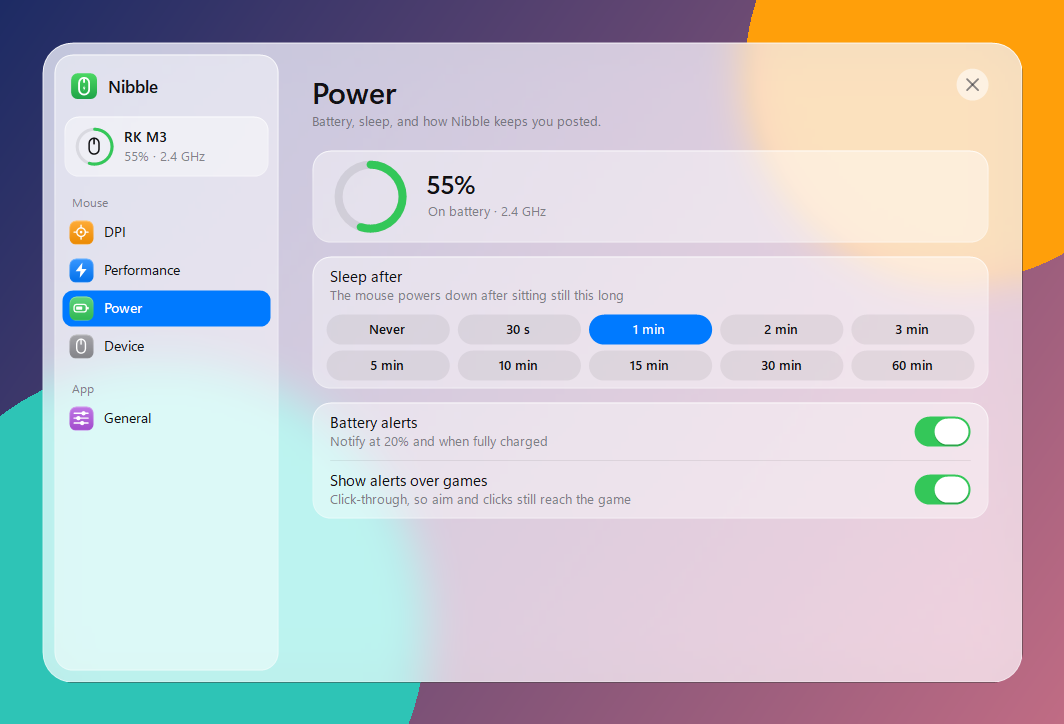
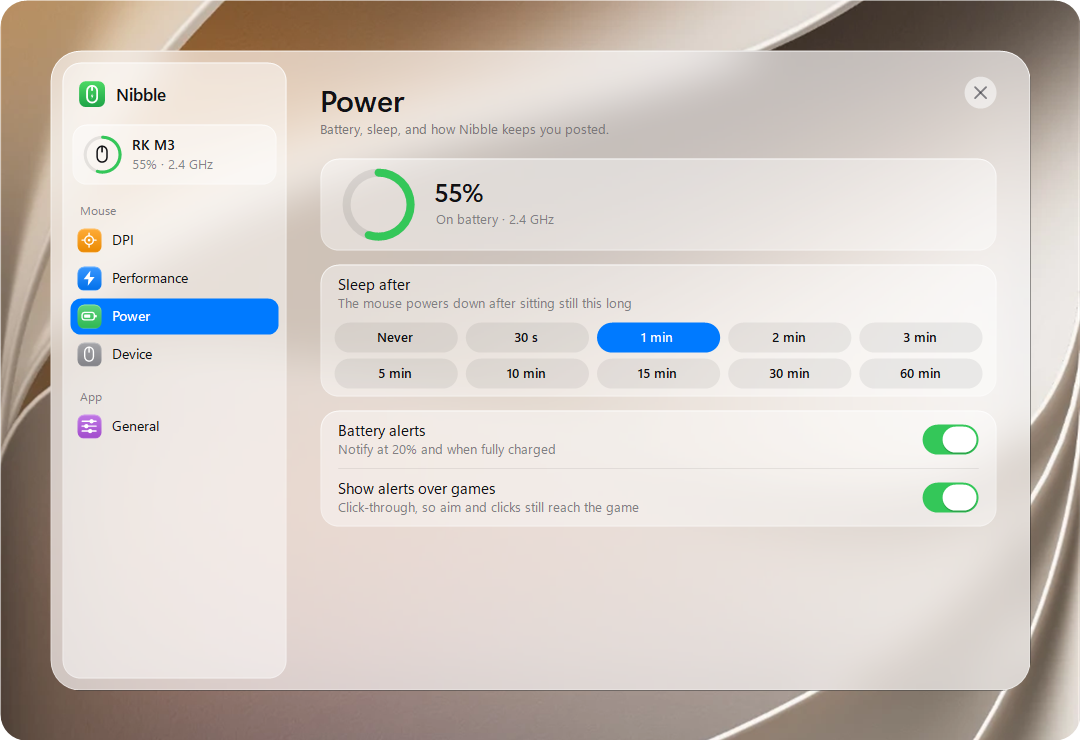
docs: screenshots on official wallpapers with even padding and rounded corners

diff --git a/src/UI/Wallpaper.cs b/src/UI/Wallpaper.cs
@@ -1,38 +1,104 @@
+using System;
 using System.Drawing;
 using System.Drawing.Drawing2D;
 using System.Drawing.Imaging;
+using System.Runtime.InteropServices;
 
 namespace Nibble.UI
 {
-    // Synthetic, colourful backdrops for design snapshots, so the glass has something to frost.
+    // Backdrops for design snapshots, so the glass has something to frost: an image passed with --bg,
+    // otherwise a neutral studio gradient.
     static class Wallpaper
     {
-        public static Bitmap Small(Size s)
+        public static string File;
+
+        public static Bitmap For(bool dark, Size s)
+        {
+            if (File != null && System.IO.File.Exists(File)) return FromFile(File, s);
+            return dark ? Studio(s, 0x2E3035, 0x111214, 0xFFFFFF, 34) : Studio(s, 0xF2F0EC, 0xD9D5CE, 0xFFFFFF, 150);
+        }
+
+        // Scales the image to cover the frame and crops a band just above the middle.
+        static Bitmap FromFile(string path, Size s)
+        {
+            using (var src = new Bitmap(path))
+            {
+                float k = Math.Max(s.Width / (float)src.Width, s.Height / (float)src.Height);
+                float w = src.Width * k, h = src.Height * k;
+                var b = new Bitmap(s.Width, s.Height, PixelFormat.Format32bppArgb);
+                using (var g = Graphics.FromImage(b))
+                {
+                    g.InterpolationMode = InterpolationMode.HighQualityBicubic;
+                    g.PixelOffsetMode = PixelOffsetMode.HighQuality;
+                    g.DrawImage(src, new RectangleF((s.Width - w) / 2, (s.Height - h) * 0.42f, w, h));
+                }
+                return b;
+            }
+        }
+
+        // A photo-studio sweep: vertical gradient, one soft key light, a gentle vignette, fine grain.
+        static Bitmap Studio(Size s, int top, int bottom, int light, int lightAlpha)
         {
             var b = new Bitmap(s.Width, s.Height, PixelFormat.Format32bppArgb);
             using (var g = Graphics.FromImage(b))
             {
-                g.SmoothingMode = SmoothingMode.AntiAlias;
-                using (var br = new LinearGradientBrush(new Rectangle(Point.Empty, s), Theme.Hex(0x1D2B64), Theme.Hex(0x7B3F9E), 60f))
+                using (var br = new LinearGradientBrush(new Rectangle(Point.Empty, s), Theme.Hex(top), Theme.Hex(bottom), 90f))
                     g.FillRectangle(br, 0, 0, s.Width, s.Height);
-                using (var br = new SolidBrush(Theme.Hex(0xFF7A45))) g.FillEllipse(br, s.Width * 0.55f, s.Height * 0.05f, s.Width * 0.6f, s.Width * 0.6f);
-                using (var br = new SolidBrush(Theme.Hex(0x2EC4B6))) g.FillEllipse(br, -s.Width * 0.2f, s.Height * 0.55f, s.Width * 0.7f, s.Width * 0.7f);
-                using (var br = new SolidBrush(Color.FromArgb(200, 255, 209, 102))) g.FillEllipse(br, s.Width * 0.25f, s.Height * 0.3f, s.Width * 0.3f, s.Width * 0.3f);
+                Glow(g, s, 0.25f, 0.1f, 0.9f, Theme.Hex(light), lightAlpha);
+                Vignette(g, s, Theme.Hex(bottom), 110);
             }
+            return Grain(b, 2);
+        }
+
+        static void Glow(Graphics g, Size s, float fx, float fy, float r, Color c, int alpha)
+        {
+            float rad = r * Math.Max(s.Width, s.Height);
+            var rect = new RectangleF(fx * s.Width - rad, fy * s.Height - rad, rad * 2, rad * 2);
+            using (var path = new GraphicsPath())
+            {
+                path.AddEllipse(rect);
+                using (var br = new PathGradientBrush(path))
+                {
+                    br.CenterColor = Color.FromArgb(alpha, c);
+                    br.SurroundColors = new[] { Color.FromArgb(0, c) };
+                    g.FillEllipse(br, rect);
+                }
+            }
+        }
+
+        static void Vignette(Graphics g, Size s, Color edge, int alpha)
+        {
+            var rect = new RectangleF(-s.Width * 0.35f, -s.Height * 0.35f, s.Width * 1.7f, s.Height * 1.7f);
+            using (var path = new GraphicsPath())
+            {
+                path.AddEllipse(rect);
+                using (var br = new PathGradientBrush(path))
+                {
+                    br.CenterColor = Color.FromArgb(0, edge);
+                    br.SurroundColors = new[] { Color.FromArgb(alpha, edge) };
+                    g.FillRectangle(br, 0, 0, s.Width, s.Height);
+                }
+            }
+        }
+
+        // Fine grain so the gradient doesn't band.
+        static Bitmap Grain(Bitmap b, int amount)
+        {
+            var rect = new Rectangle(0, 0, b.Width, b.Height);
+            var data = b.LockBits(rect, ImageLockMode.ReadWrite, PixelFormat.Format32bppArgb);
+            var px = new int[b.Width * b.Height];
+            Marshal.Copy(data.Scan0, px, 0, px.Length);
+            var rnd = new Random(7);
+            for (int i = 0; i < px.Length; i++)
+            {
+                int n = rnd.Next(-amount, amount + 1), c = px[i];
+                px[i] = (255 << 24) | (Clamp(((c >> 16) & 255) + n) << 16) | (Clamp(((c >> 8) & 255) + n) << 8) | Clamp((c & 255) + n);
+            }
+            Marshal.Copy(px, 0, data.Scan0, px.Length);
+            b.UnlockBits(data);
             return b;
         }
 
-        public static Bitmap Large(Size s)
-        {
-            var b = new Bitmap(s.Width, s.Height);
-            using (var g = Graphics.FromImage(b))
-            using (var br = new LinearGradientBrush(new Rectangle(Point.Empty, s), Theme.Hex(0x1D2B64), Theme.Hex(0xC06C84), 35f))
-            {
-                g.FillRectangle(br, 0, 0, s.Width, s.Height);
-                using (var b2 = new SolidBrush(Theme.Hex(0x2EC4B6))) g.FillEllipse(b2, -s.Width * 0.1f, s.Height * 0.5f, s.Width * 0.5f, s.Width * 0.5f);
-                using (var b3 = new SolidBrush(Theme.Hex(0xFF9F0A))) g.FillEllipse(b3, s.Width * 0.7f, -s.Height * 0.2f, s.Width * 0.4f, s.Width * 0.4f);
-            }
-            return b;
-        }
+        static int Clamp(int v) { return v < 0 ? 0 : (v > 255 ? 255 : v); }
     }
 }

diff --git a/src/App/Previews.cs b/src/App/Previews.cs
@@ -12,12 +12,17 @@ namespace Nibble
     //   --snapshot out.png dark|light [percent] [charging|asleep] [settings]    flyout
     //   --snapshot-settings out.png dark|light page [charging]                 settings window
     //   --snapshot-install out.png dark|light install|update|installed|uninstall [busy|done|error]
+    //   --snapshot-toast out.png dark|light [full]                               battery alert
+    //   --snapshot-dpi out.png dark|light                                        DPI popup
+    //   add --bg image.png to any snapshot to render it over that image
     //   --test-dpi-hud                                                         DPI popup, three presses
     //   --test-notifications                                                   each battery alert
     static class Previews
     {
         public static bool Run(string[] a)
         {
+            int bg = Array.IndexOf(a, "--bg");
+            if (bg >= 0 && bg + 1 < a.Length) Wallpaper.File = a[bg + 1];
             if (a.Length >= 3 && a[0] == "--snapshot")
             {
                 Program.InitPreview();
@@ -41,6 +46,22 @@ namespace Nibble
                 Program.InitPreview();
                 var mode = (InstallMode)Enum.Parse(typeof(InstallMode), a[3], true);
                 using (var card = InstallCard.ForPreview(mode)) card.Snapshot(a[1], a[2] == "dark", a.Length > 4 ? a[4] : "");
+                return true;
+            }
+            if (a.Length >= 3 && a[0] == "--snapshot-toast")
+            {
+                Program.InitPreview();
+                string name = Drivers.All[0].Name;
+                bool full = Program.Has(a, "full");
+                using (var t = full ? Toast.ForPreview(Toast.Kind.Full, BatteryAlerts.FullTitle, BatteryAlerts.FullBody(name))
+                                    : Toast.ForPreview(Toast.Kind.Low, BatteryAlerts.LowTitle, BatteryAlerts.LowBody(name, 18)))
+                    t.Snapshot(a[1], a[2] == "dark");
+                return true;
+            }
+            if (a.Length >= 3 && a[0] == "--snapshot-dpi")
+            {
+                Program.InitPreview();
+                using (var h = DpiHud.ForPreview(1600, 2, 3, Theme.Hex(0x00FFFF))) h.Snapshot(a[1], a[2] == "dark");
                 return true;
             }
             if (a.Length >= 1 && a[0] == "--test-dpi-hud") { TestDpiHud(); return true; }

diff --git a/src/UI/Snapshot.cs b/src/UI/Snapshot.cs
@@ -1,0 +1,38 @@
+using System;
+using System.Drawing;
+using System.Drawing.Drawing2D;
+using System.Drawing.Imaging;
+
+namespace Nibble.UI
+{
+    // Design snapshots: a window rendered over a wallpaper with even padding, saved as a PNG with
+    // rounded corners. Every panel uses the same padding and radius so the README reads as one set.
+    static class Snapshot
+    {
+        const float Pad = 48, Radius = 26;
+
+        // The wallpaper canvas for a window of this size; origin is where the window goes.
+        public static Bitmap Backdrop(Size window, float scale, bool dark, out Point origin)
+        {
+            int pad = (int)Math.Round(Pad * scale);
+            origin = new Point(pad, pad);
+            return Wallpaper.For(dark, new Size(window.Width + 2 * pad, window.Height + 2 * pad));
+        }
+
+        public static void Save(Bitmap canvas, Bitmap window, Point origin, string path, float scale)
+        {
+            using (var g = Graphics.FromImage(canvas)) g.DrawImageUnscaled(window, origin.X, origin.Y);
+            using (var rounded = new Bitmap(canvas.Width, canvas.Height, PixelFormat.Format32bppArgb))
+            {
+                using (var g = Graphics.FromImage(rounded))
+                using (var texture = new TextureBrush(canvas))
+                using (var shape = Draw.Round(new RectangleF(0, 0, canvas.Width, canvas.Height), Radius * scale))
+                {
+                    g.SmoothingMode = SmoothingMode.AntiAlias;
+                    g.FillPath(texture, shape);
+                }
+                rounded.Save(path, ImageFormat.Png);
+            }
+        }
+    }
+}

diff --git a/src/UI/GlassCard.cs b/src/UI/GlassCard.cs
@@ -289,17 +289,16 @@ namespace Nibble.UI
         protected void SnapshotTo(string path, bool dark)
         {
             Th = Theme.Current(dark);
-            int pad = Pi(40);
             var size = new Size(Pi(CardW + 2 * M), Pi(CardH + 2 * M));
-            using (var wall = Wallpaper.Large(new Size(size.Width + 2 * pad, size.Height + 2 * pad)))
+            Point o;
+            using (var wall = Snapshot.Backdrop(size, C.U, dark, out o))
             {
                 CreateFrame(size);
-                using (var cap = wall.Clone(new Rectangle(pad + Pi(M), pad + Pi(M), Pi(CardW), Pi(CardH)), wall.PixelFormat)) BuildGlass(cap);
+                using (var cap = wall.Clone(new Rectangle(o.X + Pi(M), o.Y + Pi(M), Pi(CardW), Pi(CardH)), wall.PixelFormat)) BuildGlass(cap);
                 fade = 1;
                 using (var g = Graphics.FromImage(frame.Bmp)) Compose(g);
                 frame.ApplyMask();
-                using (var g = Graphics.FromImage(wall)) g.DrawImageUnscaled(frame.Bmp, pad, pad);
-                wall.Save(path, ImageFormat.Png);
+                Snapshot.Save(wall, frame.Bmp, o, path, C.U);
             }
             frame.Dispose(); frame = null;
             glass.Dispose(); glass = null;

diff --git a/src/UI/Popups/GlassPopup.cs b/src/UI/Popups/GlassPopup.cs
@@ -164,6 +164,27 @@ namespace Nibble.UI.Popups
             PaintContent(g, card);
         }
 
+        // Renders the card fully shown over a wallpaper, for design review.
+        public void Snapshot(string path, bool dark)
+        {
+            Th = Theme.Current(dark);
+            var size = new Size(Px(cardW), Px(cardH));
+            Point o;
+            using (var wall = UI.Snapshot.Backdrop(Size, S, dark, out o))
+            {
+                using (var cap = wall.Clone(new Rectangle(o.X + Px(Inset), o.Y + Px(Inset), size.Width, size.Height), wall.PixelFormat))
+                    backdrop = Glass.Frost(cap, size, Glass.AdaptiveTint(cap, Th.Tint, Th.Dark, 90, 175), Th.Fallback, 1.8f);
+                under = Glass.Average(backdrop);
+                frame = new Surface(Size.Width, Size.Height);
+                frame.SetMask(Card, F(radius));
+                t = 1;
+                using (var g = Graphics.FromImage(frame.Bmp)) Compose(g);
+                frame.ApplyMask();
+                UI.Snapshot.Save(wall, frame.Bmp, o, path, S);
+            }
+            FreeSurfaces();
+        }
+
         protected override void OnFormClosed(FormClosedEventArgs e)
         {
             anim.Stop();

diff --git a/src/UI/Flyout.cs b/src/UI/Flyout.cs
@@ -518,16 +518,16 @@ namespace Nibble.UI
         public void Snapshot(string path, bool dark, bool settingsView)
         {
             th = Theme.Current(dark);
-            using (var wall = Wallpaper.Small(Size))
+            Point o;
+            using (var wall = UI.Snapshot.Backdrop(Size, S, dark, out o))
             {
-                using (var cap = wall.Clone(new Rectangle(Px(M), Px(M), Px(PW), Px(PH)), wall.PixelFormat))
+                using (var cap = wall.Clone(new Rectangle(o.X + Px(M), o.Y + Px(M), Px(PW), Px(PH)), wall.PixelFormat))
                     BuildSurfaces(cap);
                 ring = RingTarget(); SyncControls();
                 nav = settingsView ? 1 : 0; navTo = nav; openP = 1;
                 using (var g = Graphics.FromImage(frame.Bmp)) Compose(g);
                 frame.ApplyMask();
-                using (var g = Graphics.FromImage(wall)) g.DrawImageUnscaled(frame.Bmp, 0, 0);
-                wall.Save(path, ImageFormat.Png);
+                UI.Snapshot.Save(wall, frame.Bmp, o, path, S);
             }
             FreeSurfaces();
         }

diff --git a/src/App/BatteryAlerts.cs b/src/App/BatteryAlerts.cs
@@ -27,14 +27,18 @@ namespace Nibble
             }
         }
 
+        public const string LowTitle = "Mouse battery low", FullTitle = "Fully charged";
+        public static string LowBody(string mouse, int percent) { return string.Format("{0} is at {1}%. Plug it in soon.", mouse, percent); }
+        public static string FullBody(string mouse) { return mouse + " is at 100%. You can unplug it."; }
+
         public static void ShowLow(string mouse, int percent, Action onClick, bool overGames)
         {
-            Toast.Show(Toast.Kind.Low, "Mouse battery low", string.Format("{0} is at {1}%. Plug it in soon.", mouse, percent), onClick, overGames);
+            Toast.Show(Toast.Kind.Low, LowTitle, LowBody(mouse, percent), onClick, overGames);
         }
 
         public static void ShowFull(string mouse, Action onClick, bool overGames)
         {
-            Toast.Show(Toast.Kind.Full, "Fully charged", mouse + " is at 100%. You can unplug it.", onClick, overGames);
+            Toast.Show(Toast.Kind.Full, FullTitle, FullBody(mouse), onClick, overGames);
         }
     }
 }

diff --git a/src/UI/Popups/DpiHud.cs b/src/UI/Popups/DpiHud.cs
@@ -24,6 +24,13 @@ namespace Nibble.UI.Popups
             current.Present(dpi, stage, stages, led);
         }
 
+        public static DpiHud ForPreview(int dpi, int stage, int stages, Color led)
+        {
+            var h = new DpiHud();
+            h.dpi = dpi; h.stage = stage; h.stages = stages; h.led = led;
+            return h;
+        }
+
         DpiHud() : base(W, H, H / 2, true, 160, 1300, 220)
         {
             fNum = new Font(Draw.PickFont("Segoe UI Variable Display Semib", "Segoe UI Semibold"), 26 * S, FontStyle.Regular, GraphicsUnit.Pixel);

diff --git a/src/UI/Popups/Toast.cs b/src/UI/Popups/Toast.cs
@@ -48,6 +48,8 @@ namespace Nibble.UI.Popups
             waitTimer.Start();
         }
 
+        public static Toast ForPreview(Kind kind, string title, string body) { return new Toast(kind, title, body, null, false); }
+
         Toast(Kind kind, string title, string body, Action onClick, bool clickThrough)
             : base(340, 76, 22, clickThrough, 280, 6000, 180)
         {

diff --git a/README.md b/README.md
@@ -10,6 +10,10 @@ A tiny Windows tray app for the **Royal Kludge M3** mouse: battery at a glance, 
   <img src="docs/screenshots/flyout-light.png" width="250" alt="Tray flyout in light mode">
   <img src="docs/screenshots/flyout-charging.png" width="250" alt="Tray flyout while charging">
 </p>
+<p align="center">
+  <img src="docs/screenshots/notification.png" width="380" alt="Low battery notification">
+  <img src="docs/screenshots/dpi-popup.png" width="290" alt="On-screen DPI popup">
+</p>
 
 <details>
 <summary>More screenshots</summary>
@@ -18,10 +22,12 @@ A tiny Windows tray app for the **Royal Kludge M3** mouse: battery at a glance, 
   <img src="docs/screenshots/settings-performance.png" width="760" alt="Performance settings">
   <img src="docs/screenshots/settings-power.png" width="760" alt="Power settings, light mode">
   <img src="docs/screenshots/settings-general.png" width="760" alt="General settings with the tray icon styles">
-  <img src="docs/screenshots/install.png" width="360" alt="Install card">
+  <img src="docs/screenshots/install.png" width="380" alt="Install card">
 </p>
 
 </details>
+
+<sub>Screenshot backdrops are Apple’s iOS wallpapers, used for illustration only.</sub>
 
 - **Tray icon.** Five styles (fill-up mouse, number, battery, tinted, minimal), drawn with Segoe Fluent Icons so they match the system icons. Hover for the exact percentage.
 - **Flyout.** Click the icon for a glass panel with the battery ring, connection, DPI and last sync.
@@ -80,7 +86,10 @@ The UI only talks to `IMouse` and reads `MouseCaps` to decide which options to s
 - `--snapshot-settings out.png dark|light <page> [charging]` renders a settings page.
 - `--snapshot-install out.png dark|light install|update|installed|uninstall [busy|done|error]` renders the install card.
 
-The screenshots in `docs/screenshots` are made with these flags.
+- `--snapshot-toast out.png dark|light [full]` and `--snapshot-dpi out.png dark|light` render the popups.
+- Add `--bg image.png` to any snapshot to render it over that image instead of the plain backdrop.
+
+The screenshots in `docs/screenshots` are made with these flags. The wallpapers aren’t in the repo.
 - `--test-dpi-hud` and `--test-notifications` show the popups.
 
 ## How it talks to the M3
